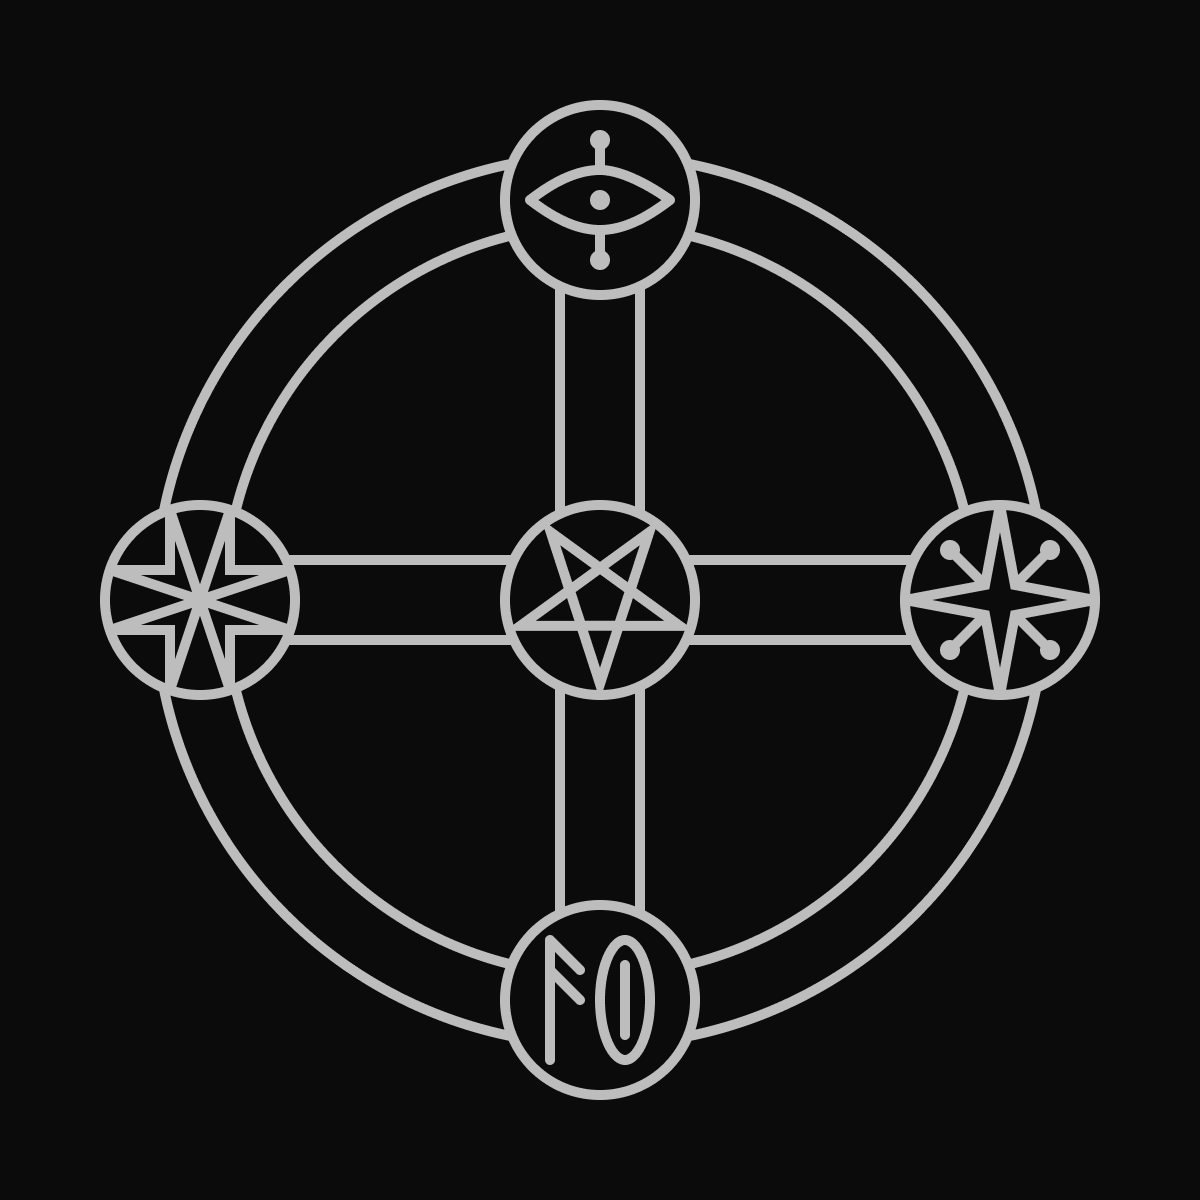
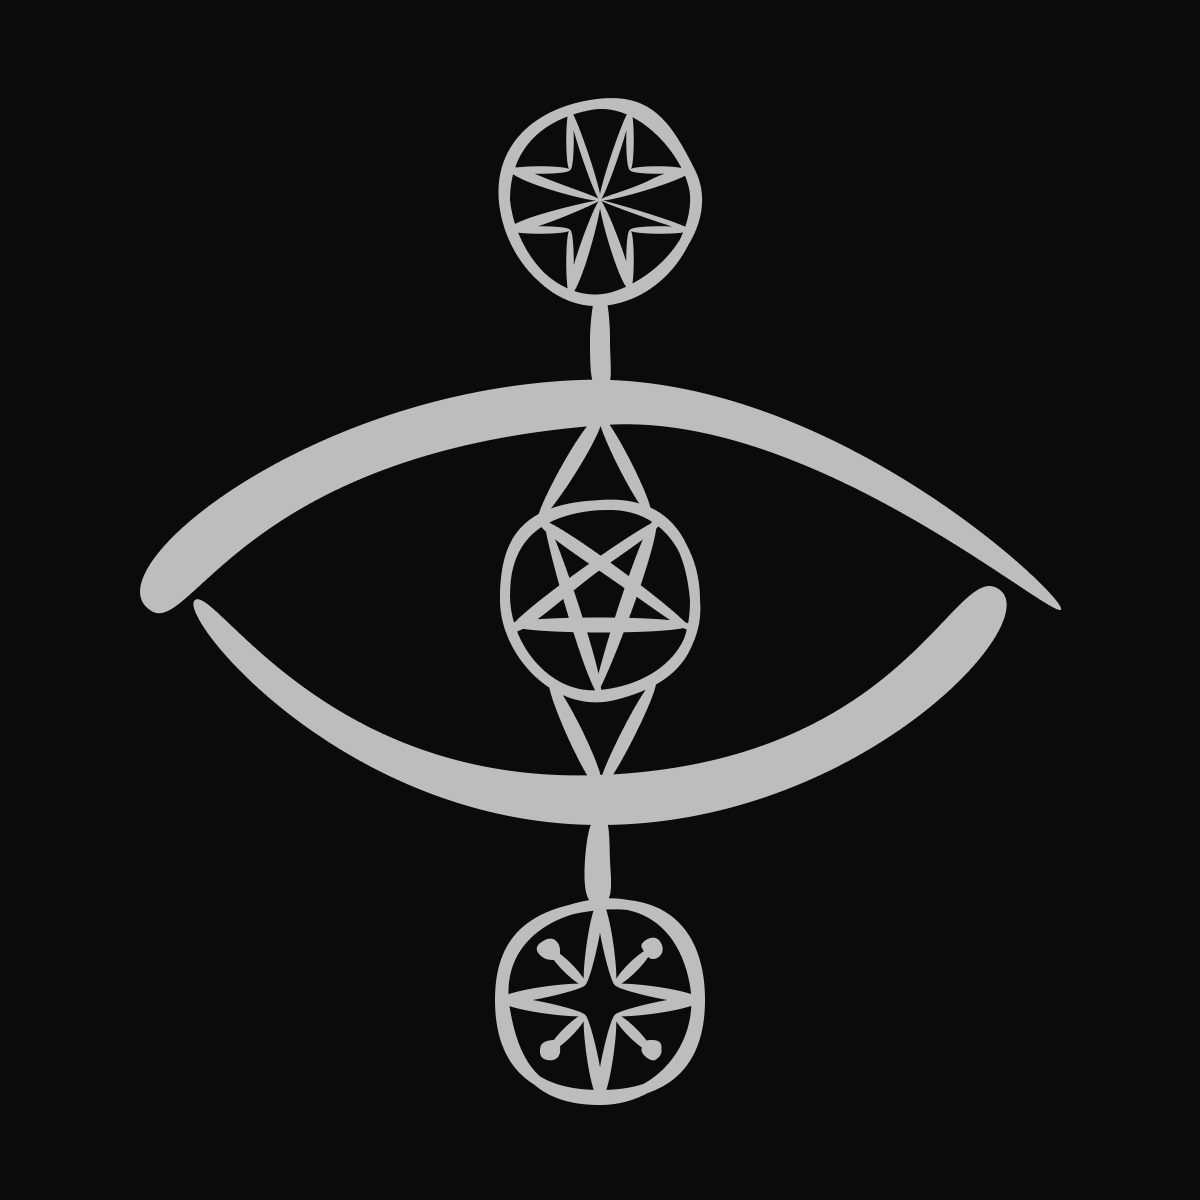
Замена основного лого

diff --git a/index.html b/index.html
@@ -9,10 +9,10 @@
   <meta property="og:type"               content="website" />
   <meta property="og:title"              content="Docendo Deus" />
   <meta property="og:description"        content="Научно-философские трактат о гибкой и устойчивой картине мира" />
-  <meta property="og:image"              content="//docendo-deus.ru/img/dd-icon.png" />
+  <meta property="og:image"              content="//docendo-deus.ru/img/mini-icon/main.png" />
 
   <title>Docendo Deus</title>
-  <link rel="shortcut icon" href="img/dd-icon.png" type="image/png">
+  <link rel="shortcut icon" href="img/mini-icon/main.png" type="image/png">
   <!--<link href="https://fonts.googleapis.com/css?family=Marmelad&display=swap" rel="stylesheet">-->
   <link href="https://fonts.googleapis.com/css?family=Neucha&display=swap" rel="stylesheet">
   <link rel="stylesheet" href="https://maxcdn.bootstrapcdn.com/bootstrap/4.0.0/css/bootstrap.min.css" integrity="sha384-Gn5384xqQ1aoWXA+058RXPxPg6fy4IWvTNh0E263XmFcJlSAwiGgFAW/dAiS6JXm" crossorigin="anonymous">
